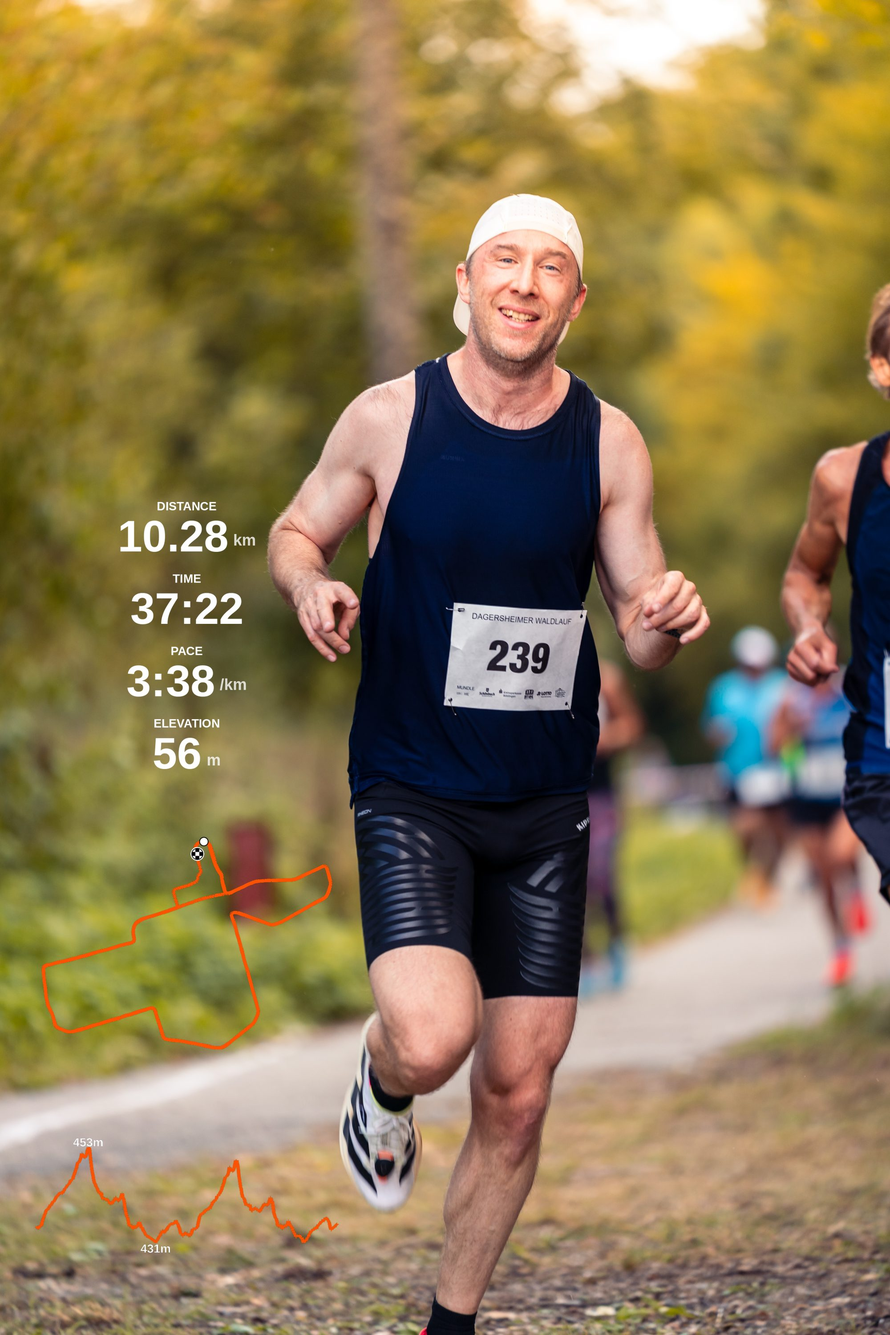
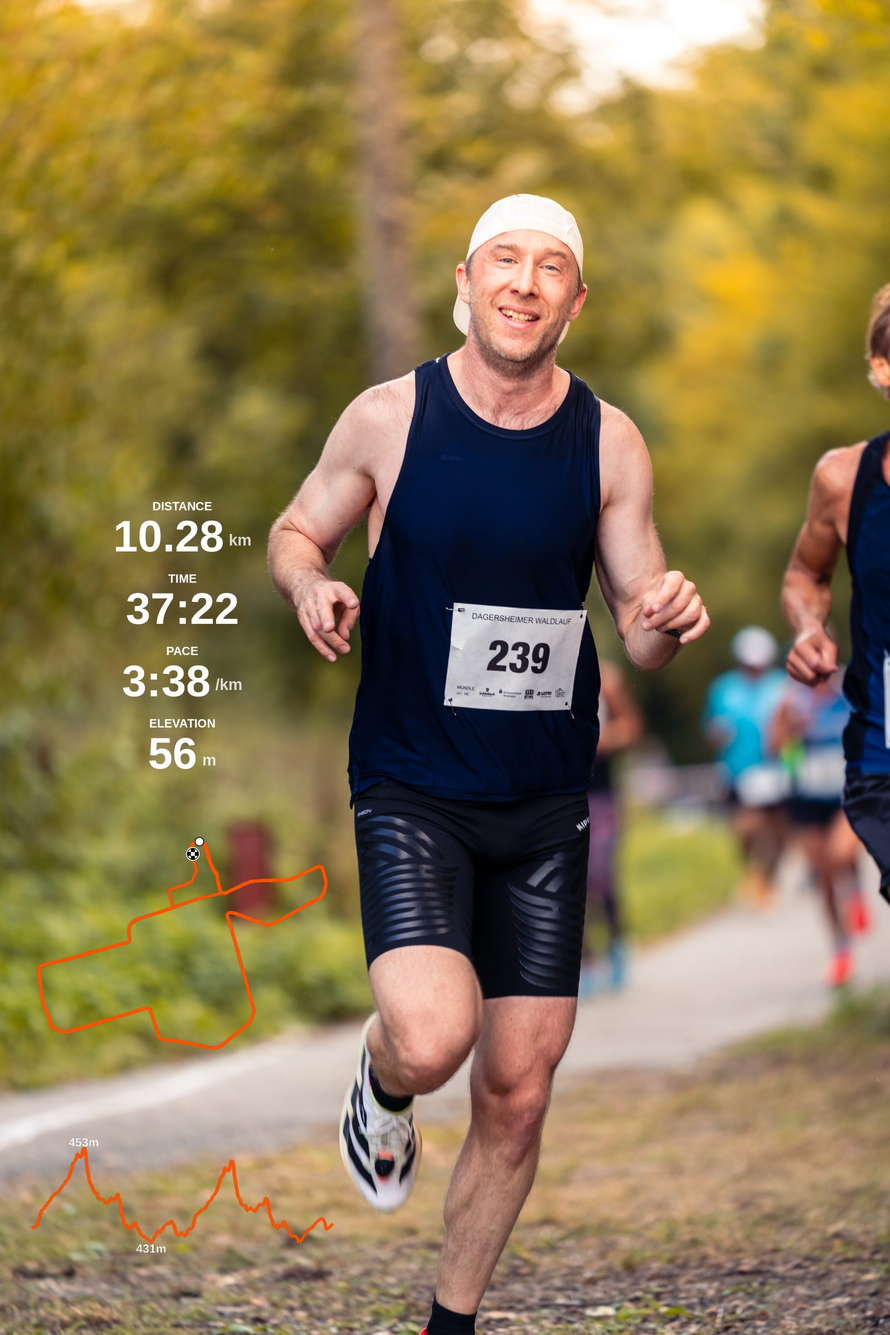
Move the race card to 0.5 % from the left edge

diff --git a/examples/make_examples.py b/examples/make_examples.py
@@ -194,7 +194,7 @@ def main() -> None:
     # The photo is 2:3. The runner fills the centre and the right side, so the
     # card sits low at the left edge, where the background is free.
     write_setup(BACKGROUNDS / "race-dagersheim.jpg", (2000, 3000), race_card,
-                HERE / "setup-race.jpg", x_frac=0.01, width_frac=0.40,
+                HERE / "setup-race.jpg", x_frac=0.005, width_frac=0.40,
                 v_align="bottom", v_margin=0.01)
 
 
